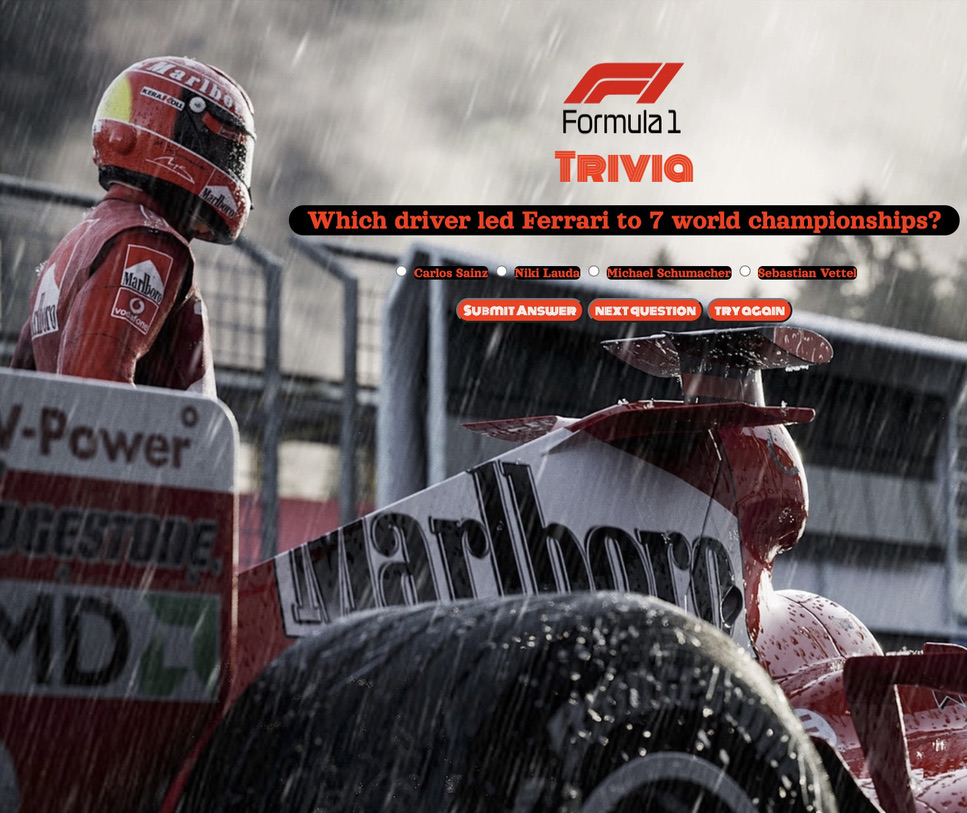
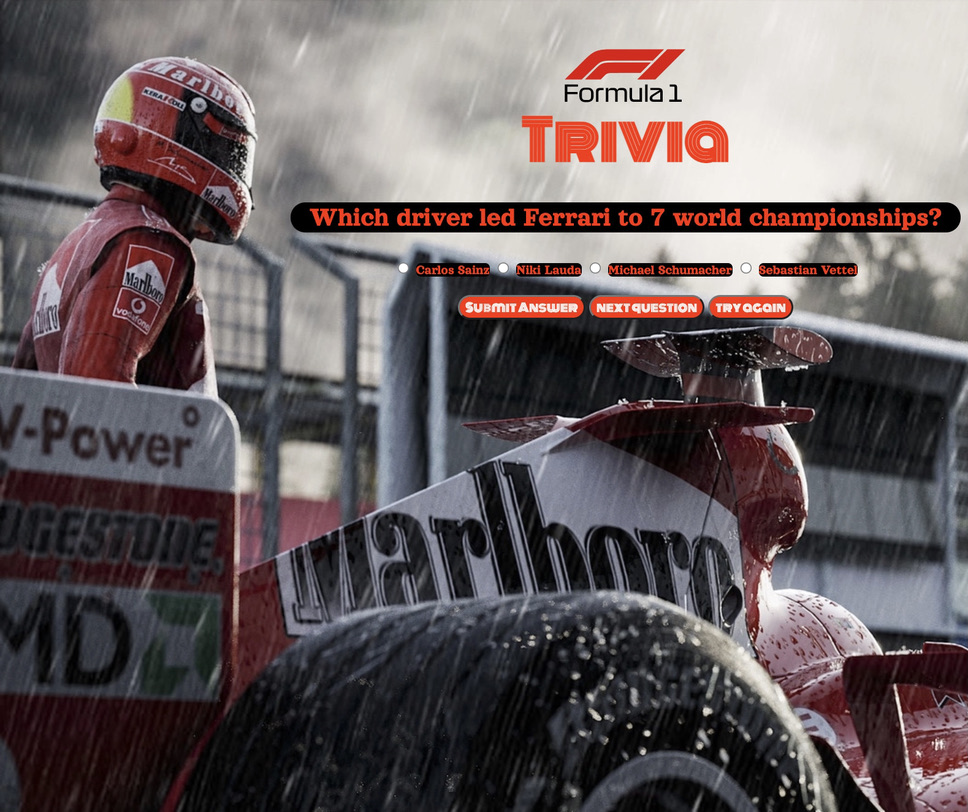
.md changes

diff --git a/style.css b/style.css
@@ -23,7 +23,9 @@ h1 {
     color: #ff2800;
     font-family: 'Monoton', cursive;
     margin-top: -60px;
-    font-size: 40px;    
+    font-size: 60px;   
+    
+     
 }
 
 #question {
@@ -90,7 +92,8 @@ h1 {
 
 .header img {
     width: 200px;
-    height: 200px;
+    height: 150px;
+    margin-bottom: 5px;
 }
 
 
